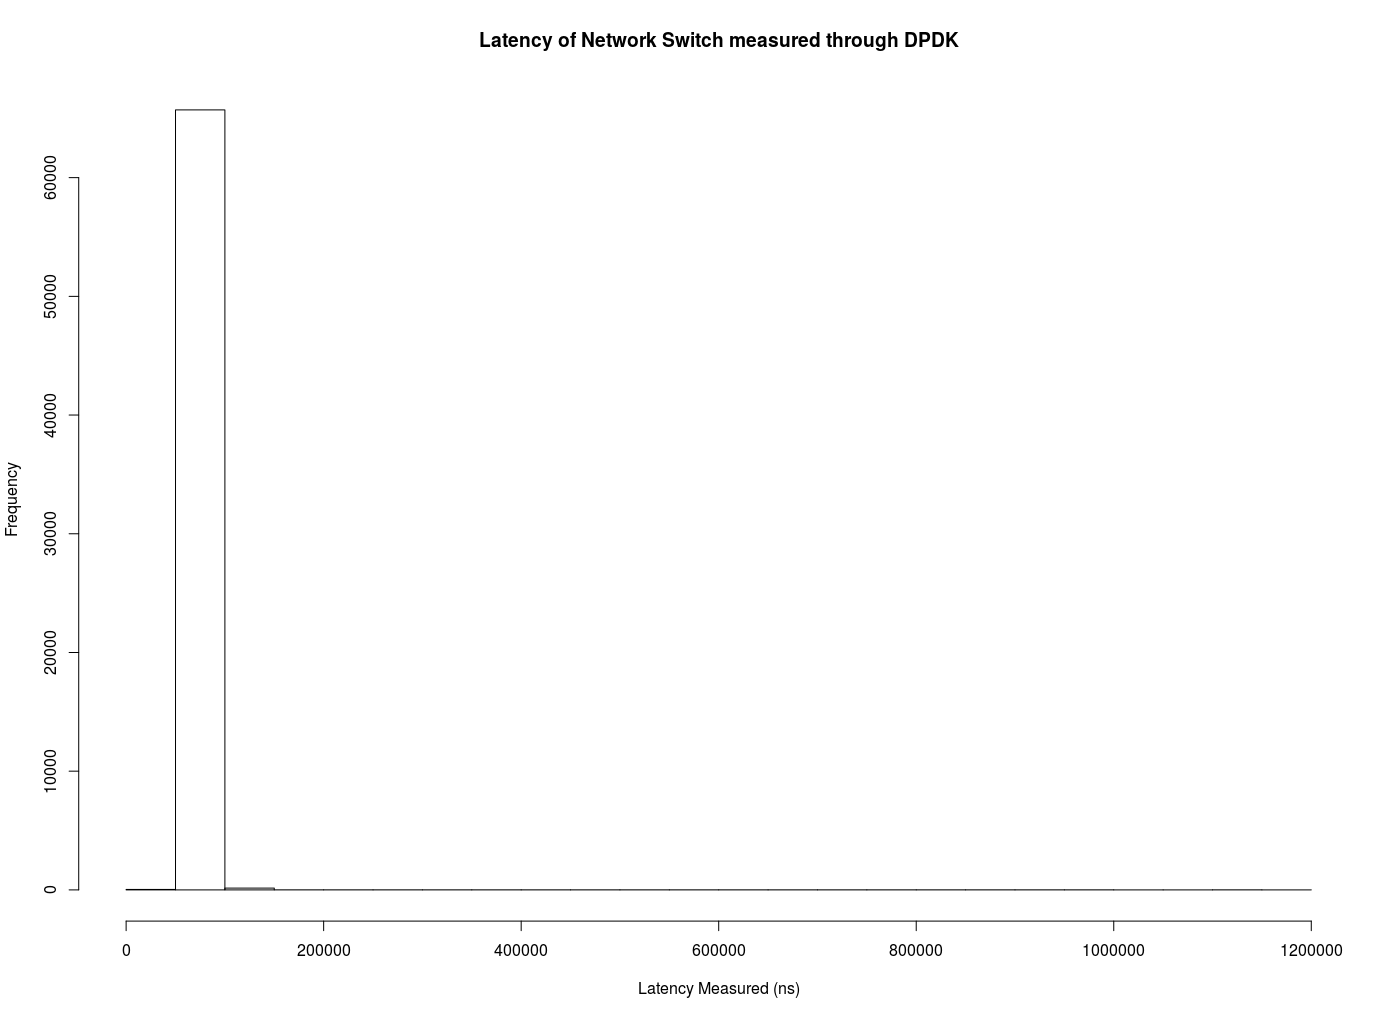
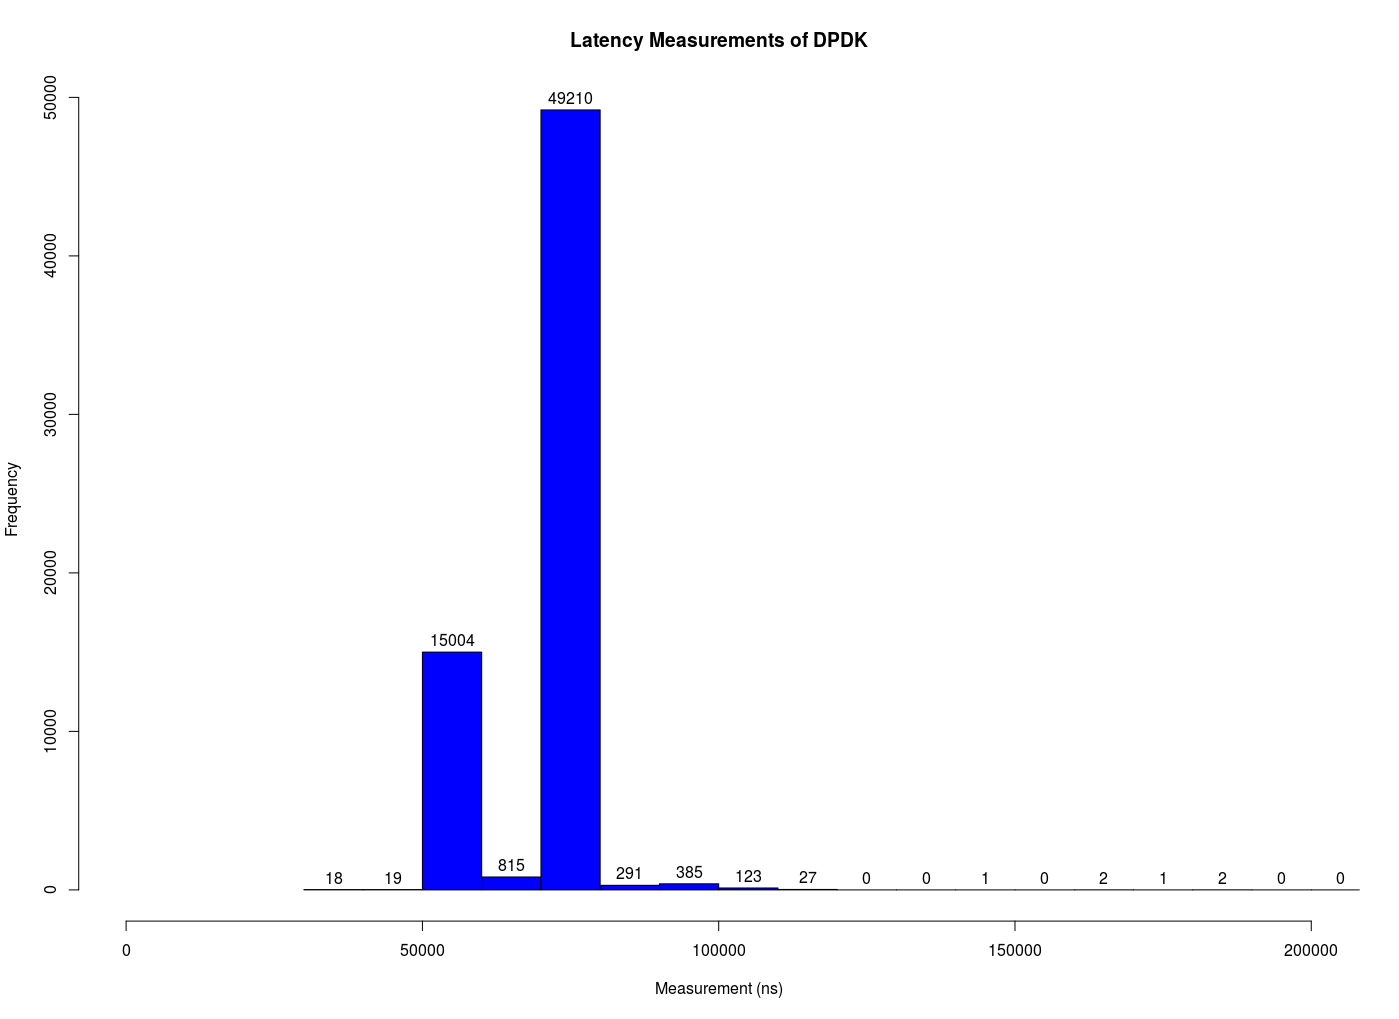
Added more info into evaluation

diff --git a/Report/Final/evaluation.tex b/Report/Final/evaluation.tex
@@ -57,3 +57,25 @@ are missing while also performing unreliably. The DPDK based system was compared
 a packet on one machine, then sending the packet through the network switch to arrive at the other machine, and the
 time delta is returned from both machines. The FPGA device also performed the same task with the same cables, but 
 the two connections arrived at the same machine.
+
+\begin{figure}[H]
+    \begin{center}
+        \includegraphics[keepaspectratio,height=7.5cm]{Images/DPDK}
+        \caption{Results from DPDK Reliability Measurements}
+        \label{fig:DPDKReliability}
+    \end{center}
+\end{figure}
+
+\begin{figure}[H]
+    \begin{center}
+        \includegraphics[keepaspectratio,height=7.5cm]{Images/Test1Plot}
+        \caption{Results from FPGA device Reliability Measurements}
+        \label{fig:Test2Plot}
+    \end{center}
+\end{figure}
+
+\par As seen in the results, the FPGA device produced a value lower than the mean value. This is very interesting, as
+it is an unexpected result. Lower values produced by the device could be attributed to the device misinterpreting 
+the reception of a previous test as the end of the current test. Regardless of this result, the device produced over 
+10 times lower standard deviation compared with the results from the DPDK test setup. This can be concluded as a 
+successful test.
